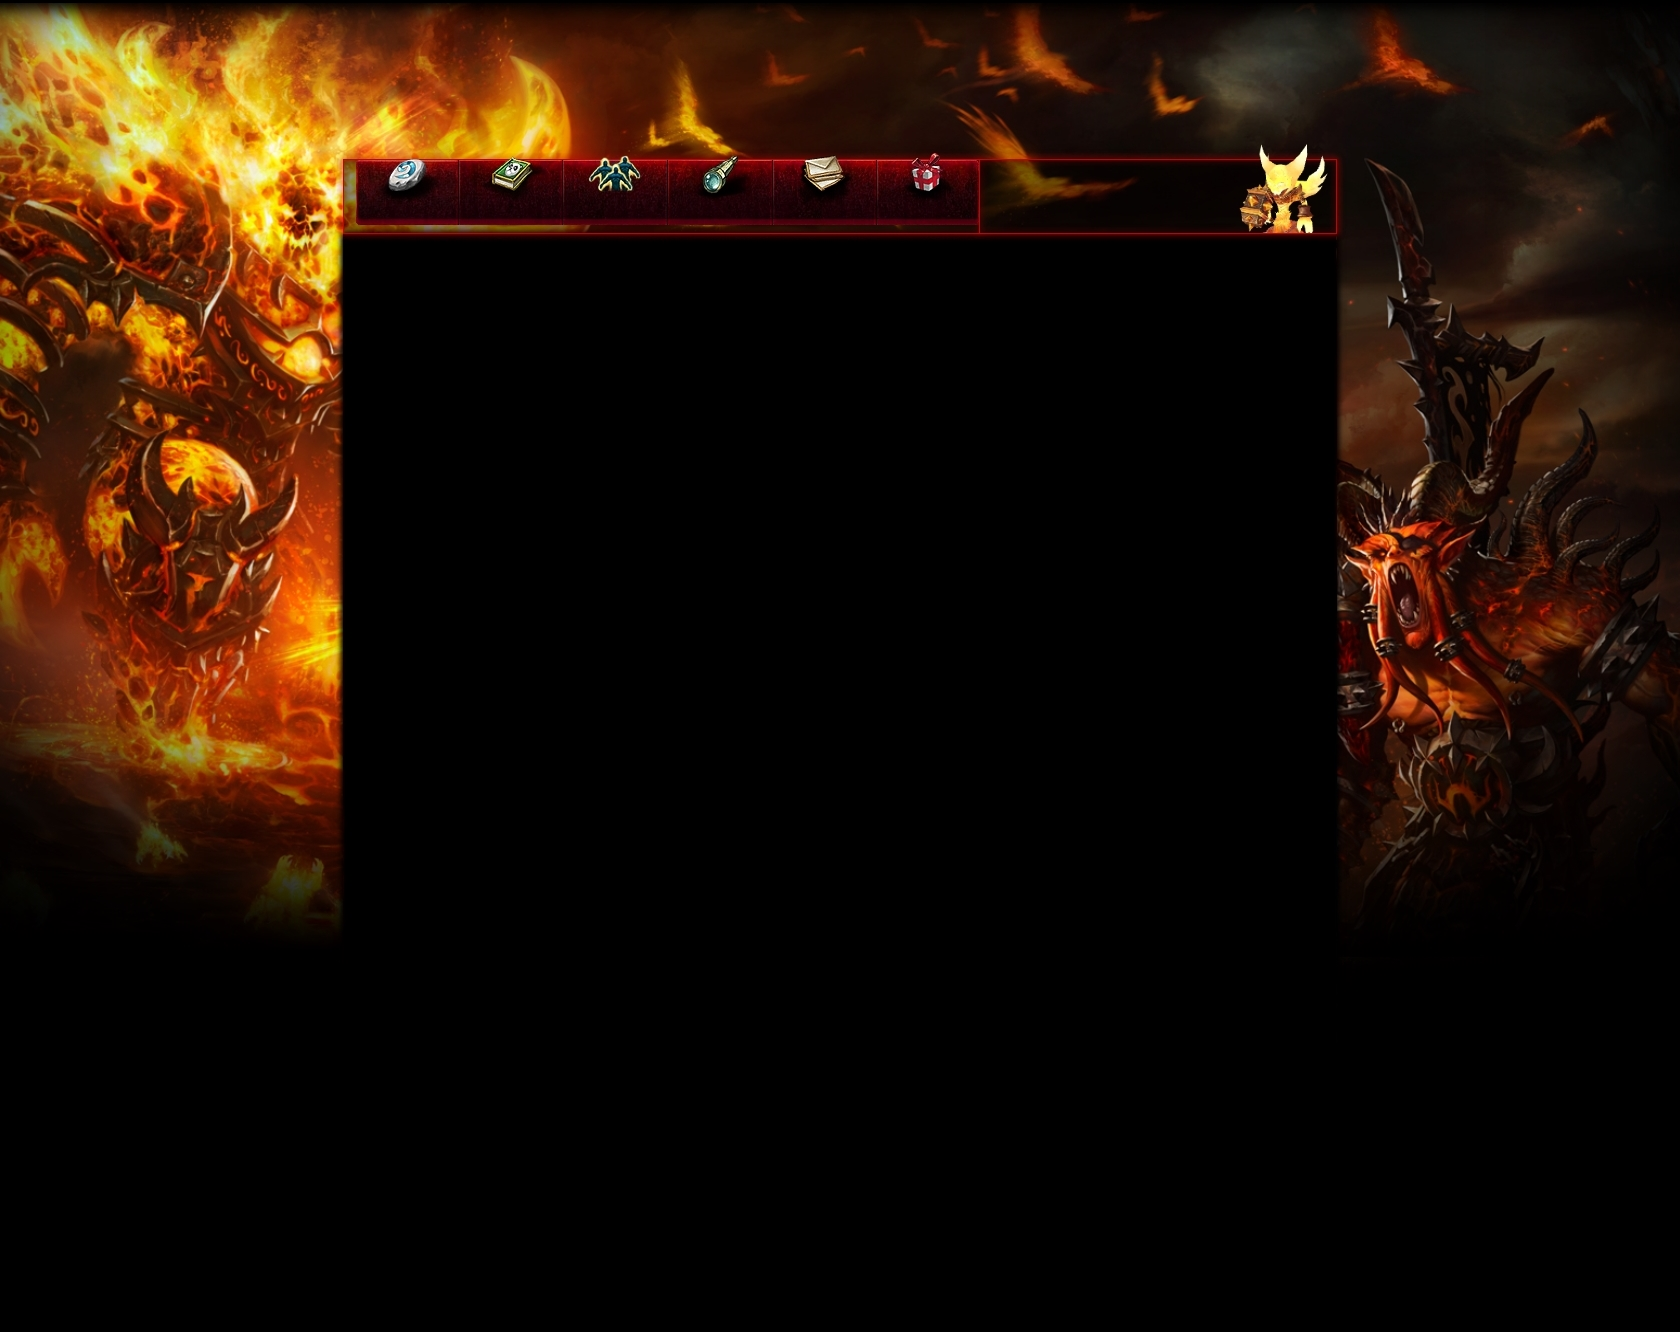
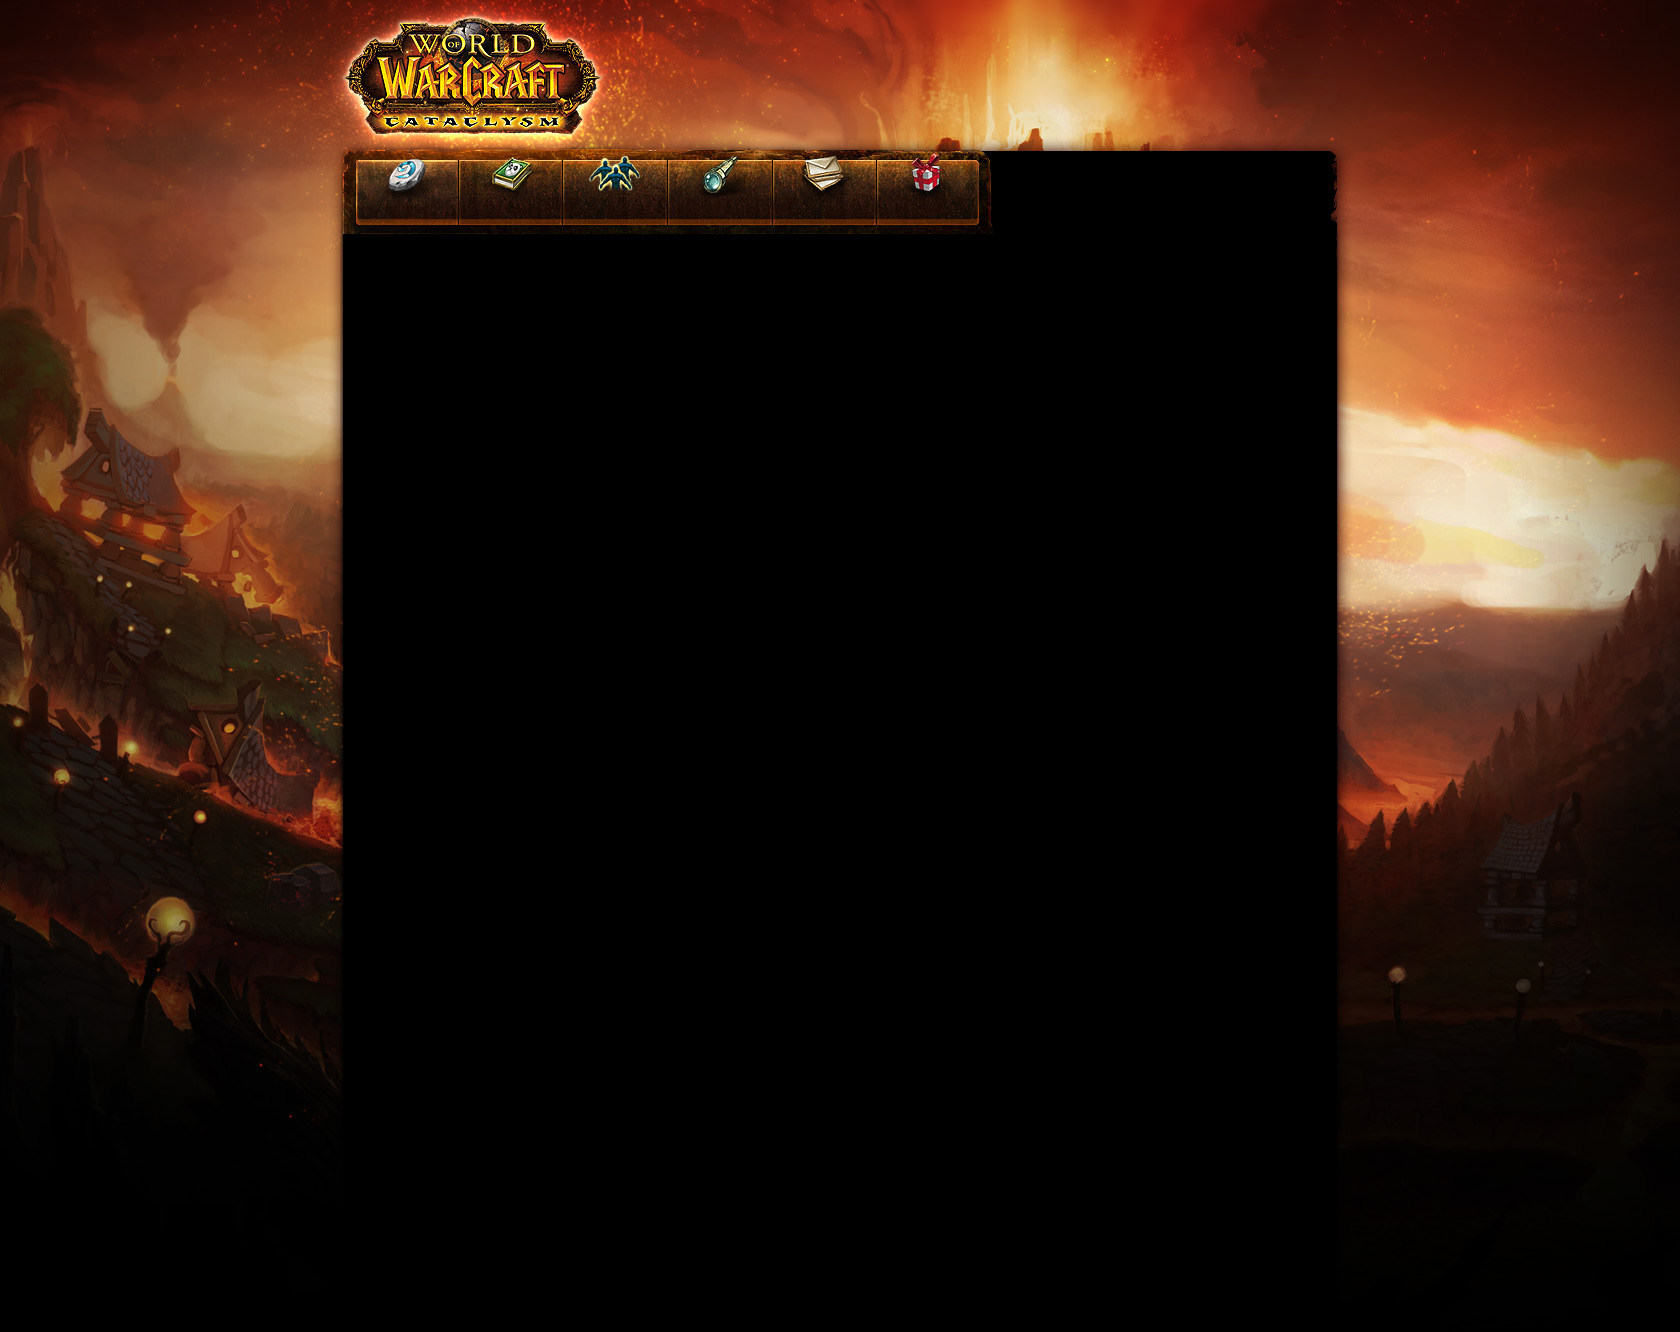
Restoring the Old Theme and Updating some More Info on the Userplate.

diff --git a/userplate.php b/userplate.php
@@ -22,7 +22,7 @@ if(!isset($_SESSION['username']))
   $Userplate = new Userplate();
 ?>
 <div class="user-plate">
-<div id="user-plate" class="card-character plate-0 ajax-update" style="background: url(<?php echo $website['root']; ?>wow/static/images/layout/cards/no-chars.png) 0 100% no-repeat;">
+<div id="user-plate" class="card-character plate-0 ajax-update" style="background: url(<?php echo $website['root']; ?>wow/static/images/2d/card/0-0.jpg) 0 100% no-repeat;">
 <div class="card-overlay"></div>
 <span class="hover"></span>
 </a>
@@ -30,6 +30,12 @@ if(!isset($_SESSION['username']))
 <div class="player-name"><?php echo strtolower($_SESSION['username']); ?></div>
 <div class="character">
 <a class="character-name context-link" href="#" rel="np" data-tooltip="Change character"><?php if($Userplate->getNumChars() > 0) { echo $Userplate->getNumChars()." Characters";} else {echo "No Characters" ;} ?> <span class="arrow"></span></a>
+<div class="guild">
+<a class="guild-name" href="#">
+<?php echo $name_realm1['realm'] ?>
+</a>
+</div>
+
     <div id="context-1" class="ui-context character-select">
     <span class="arrow"></span>
       <div class="context">
